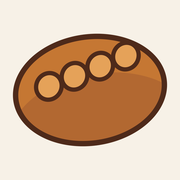
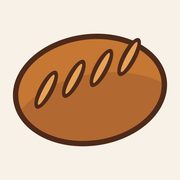
Alargar las grenas del pan, que salian casi redondas
Los dos ejes de cada corte median 763x826, o sea un circulo. Ahora son
2,8 a 1, que es la proporcion del dibujo. De paso se corrige el reparto
horizontal: un factor de mas las juntaba en el centro en vez de repartirlas
a lo largo del lomo.

Changed region(s): [[0.1667, 0.1944, 0.8056, 0.6111]]

diff --git a/index.html b/index.html
@@ -21,10 +21,10 @@
   <meta name="twitter:description" content="Pan recién horneado, pasteles y dulces hechos como antes.">
   <meta name="twitter:image" content="https://images.unsplash.com/photo-1636378126357-7e5f200771c5?auto=format&amp;fit=crop&amp;w=1200&amp;q=85">
   <title>El Tradicional | Panadería &amp; Pastelería</title>
-  <link rel="icon" href="favicon.ico?v=pan2-20260925" sizes="any">
-  <link rel="icon" type="image/png" sizes="32x32" href="favicon-32.png?v=pan2-20260925">
-  <link rel="icon" type="image/png" sizes="192x192" href="favicon-192.png?v=pan2-20260925">
-  <link rel="apple-touch-icon" href="apple-touch-icon.png?v=pan2-20260925">
+  <link rel="icon" href="favicon.ico?v=pan3-20260925" sizes="any">
+  <link rel="icon" type="image/png" sizes="32x32" href="favicon-32.png?v=pan3-20260925">
+  <link rel="icon" type="image/png" sizes="192x192" href="favicon-192.png?v=pan3-20260925">
+  <link rel="apple-touch-icon" href="apple-touch-icon.png?v=pan3-20260925">
   <link rel="stylesheet" href="styles.css?v=pie4-20260924">
   <script type="application/ld+json">
   {
